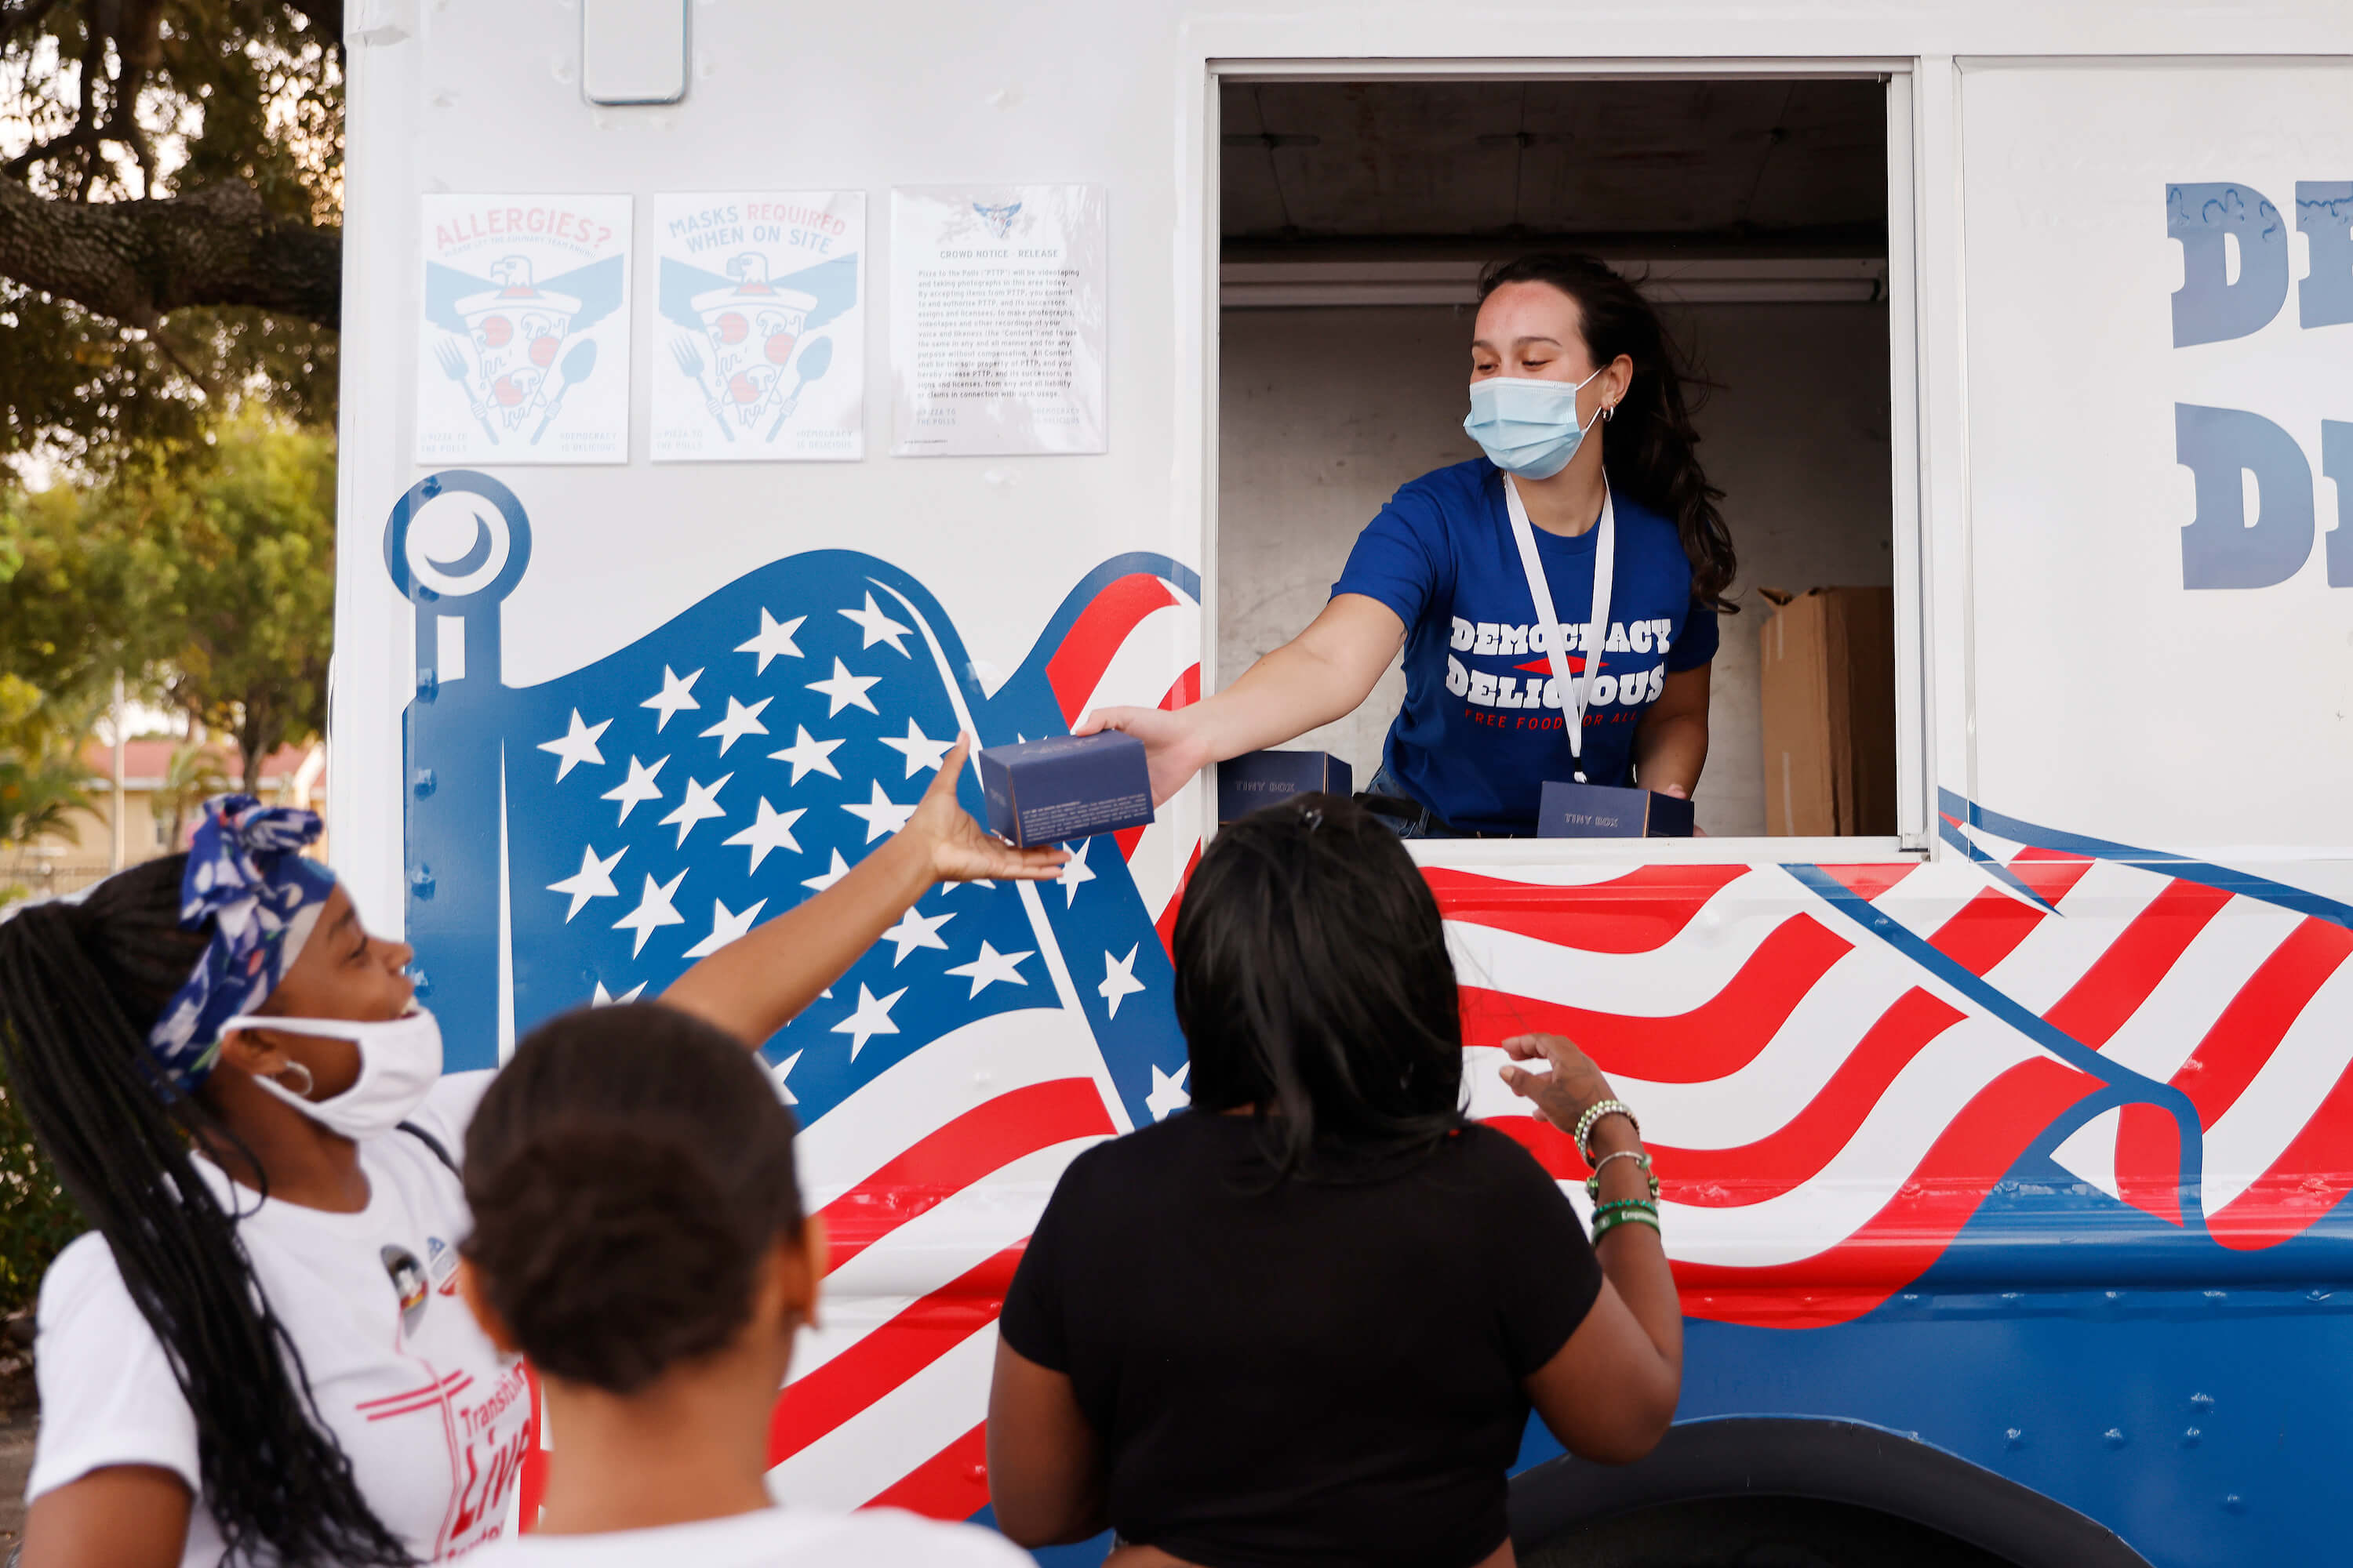
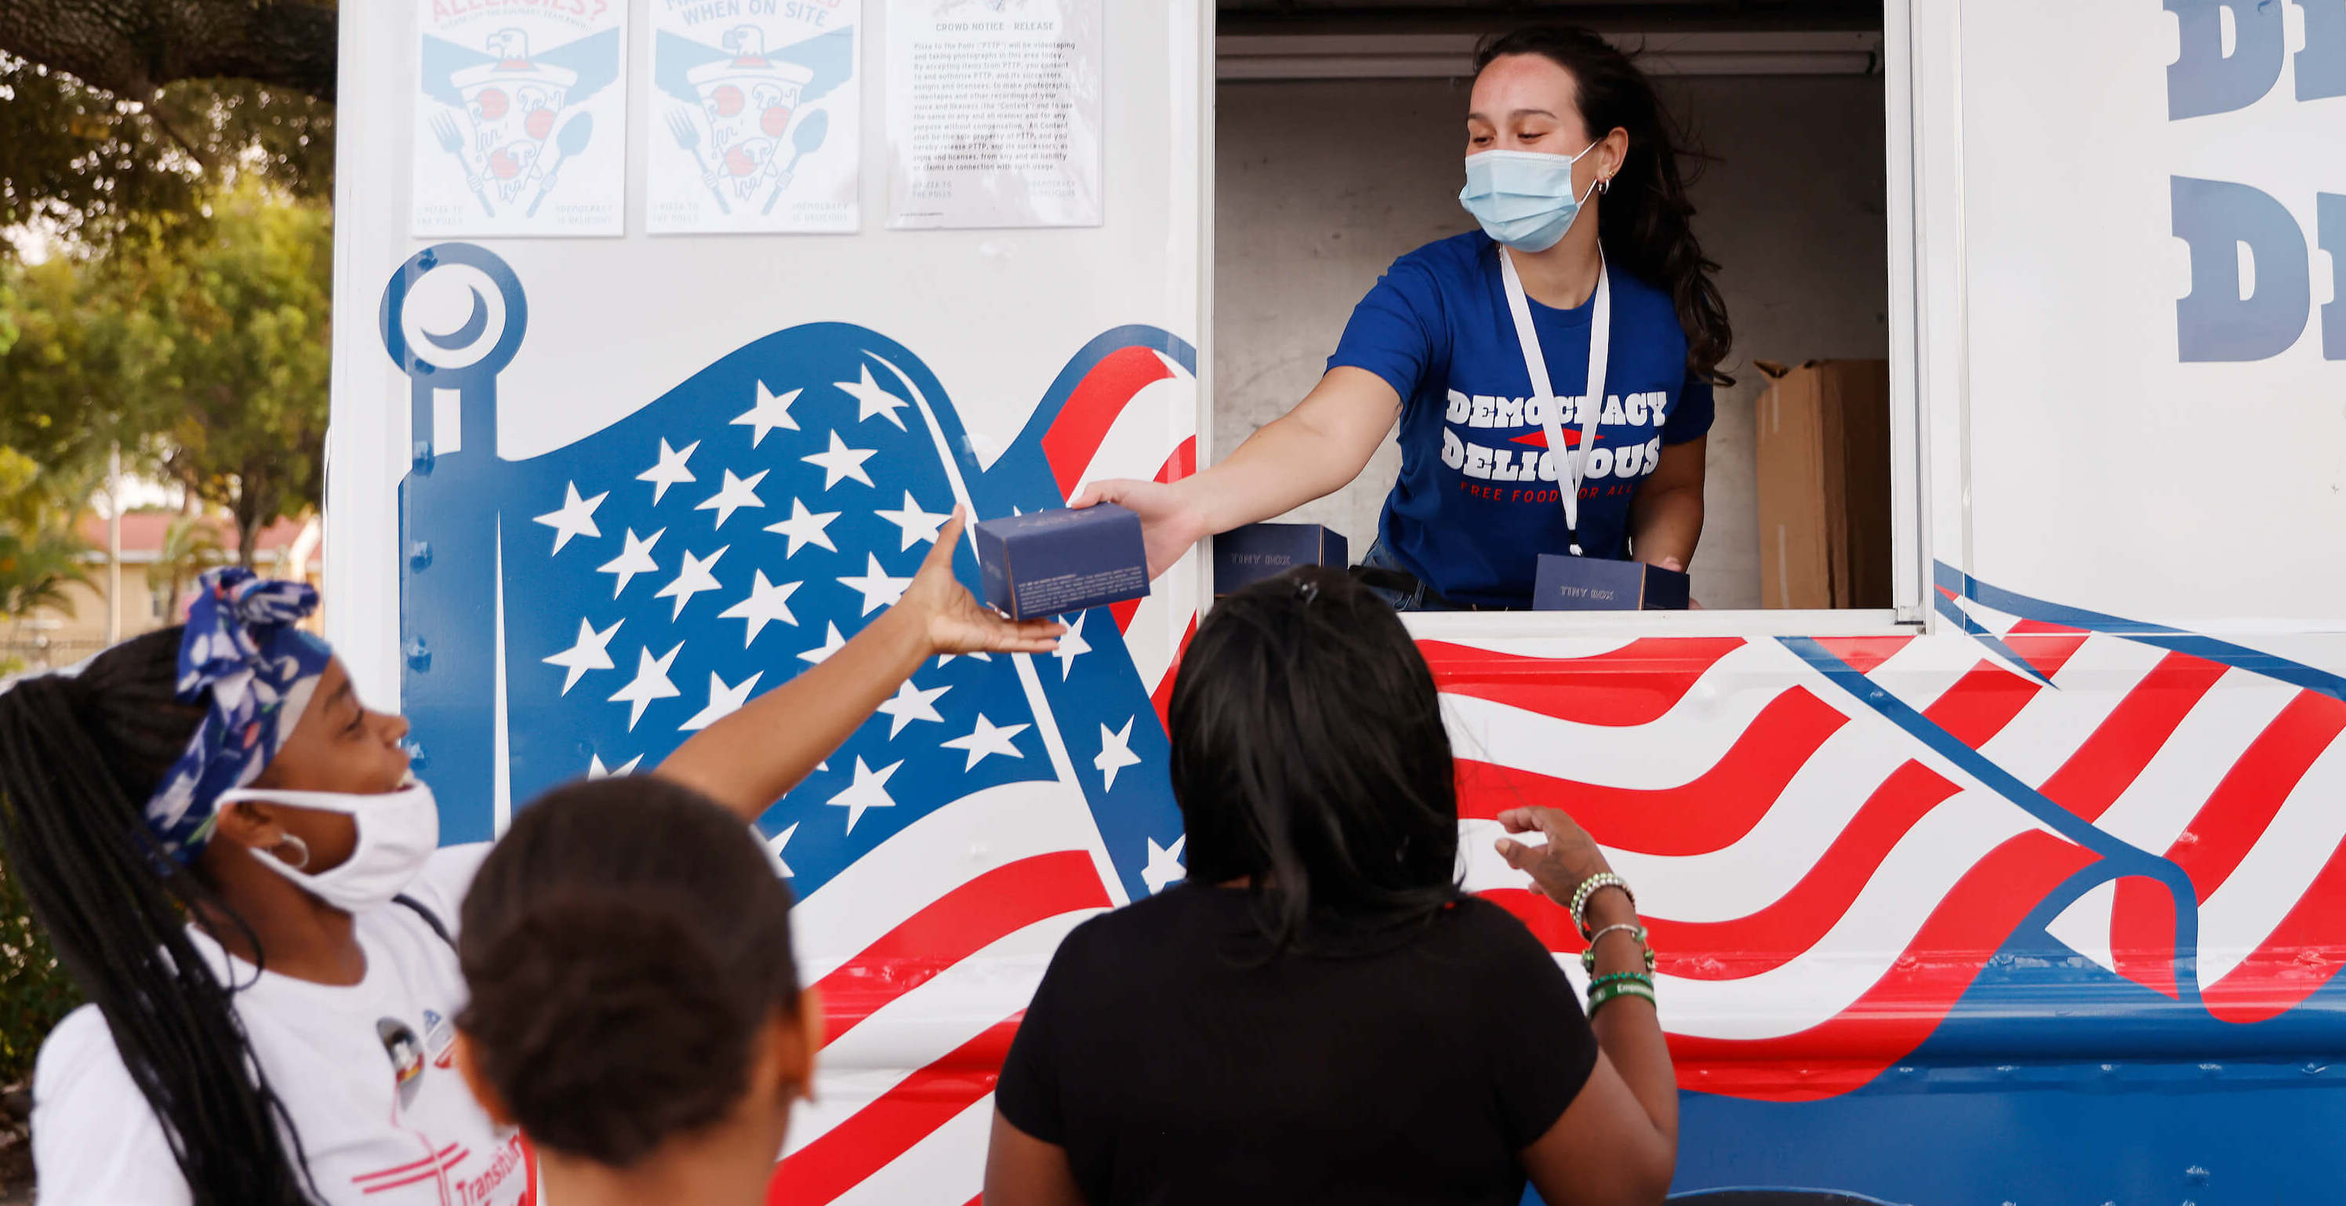
Hero updates

diff --git a/src/components/page-home/page-home.scss b/src/components/page-home/page-home.scss
@@ -9,16 +9,17 @@ page-home {
   }
 
   .hero {
-    // background: url("images/hero.jpg");
     color: $white;
-    background-size: contain;
-    overflow: hidden;
     position: relative;
-    overflow: hidden;
 
-    img {
-      border-radius: 0;
-      margin: 0 0 -10px 0;
+    .hero-image-container {
+      display: block;
+      background: url("images/hero.jpg");
+      background-size: cover;
+      background-repeat: no-repeat;
+      background-position: 50% 25%;
+      min-height: 300px;
+      width: 100%;
     }
 
     .tagline {
@@ -31,7 +32,6 @@ page-home {
       bottom: 0;
       padding: 20px;
       border-top: 10px solid $cyan;
-      max-width: 800px;
       margin: 0 auto;
       font-size: 18px;
 
@@ -47,17 +47,31 @@ page-home {
     }
 
     @media ($tablet) {
-      max-height: 80vh;
+      .hero-image-container {
+        min-height: 500px;
+        overflow: hidden;
+      }
 
       .tagline {
-        margin: 0 0 30px -400px;
-        border: 10px solid $cyan;
-        position: absolute;
-        left: 50%;
-
         p {
           font-size: 24px;
         }
+      }
+    }
+
+    @media ($desktop) {
+      .hero-image-container {
+        height: 60vh;
+        max-height: 900px;
+      }
+
+      .tagline {
+        width: 800px;
+        position: absolute;
+        bottom: 50px;
+        left: 50%;
+        margin-left: -400px;
+        border: 10px solid $cyan;
       }
     }
   }

diff --git a/src/components/page-home/page-home.tsx b/src/components/page-home/page-home.tsx
@@ -35,12 +35,14 @@ export class PageHome {
     return (
       <div>
         <div class="hero">
-          <img src="/images/hero.jpg" alt="Person handing out food from a food truck" />
+          <div class="hero-image-container"></div>
           <div class="tagline">
-            <p>Our mission is to deliver free food to people who are waiting in long lines while participating in civic life.</p>
-            <a class="button is-red" href="/donate">
-              Donate to feed democracy
-            </a>
+            <div class="container">
+              <p>Our mission is to deliver free food to people who are waiting in long lines while participating in civic life.</p>
+              <a class="button is-red" href="/donate">
+                Donate to feed democracy
+              </a>
+            </div>
           </div>
         </div>
         <section class="totals">
